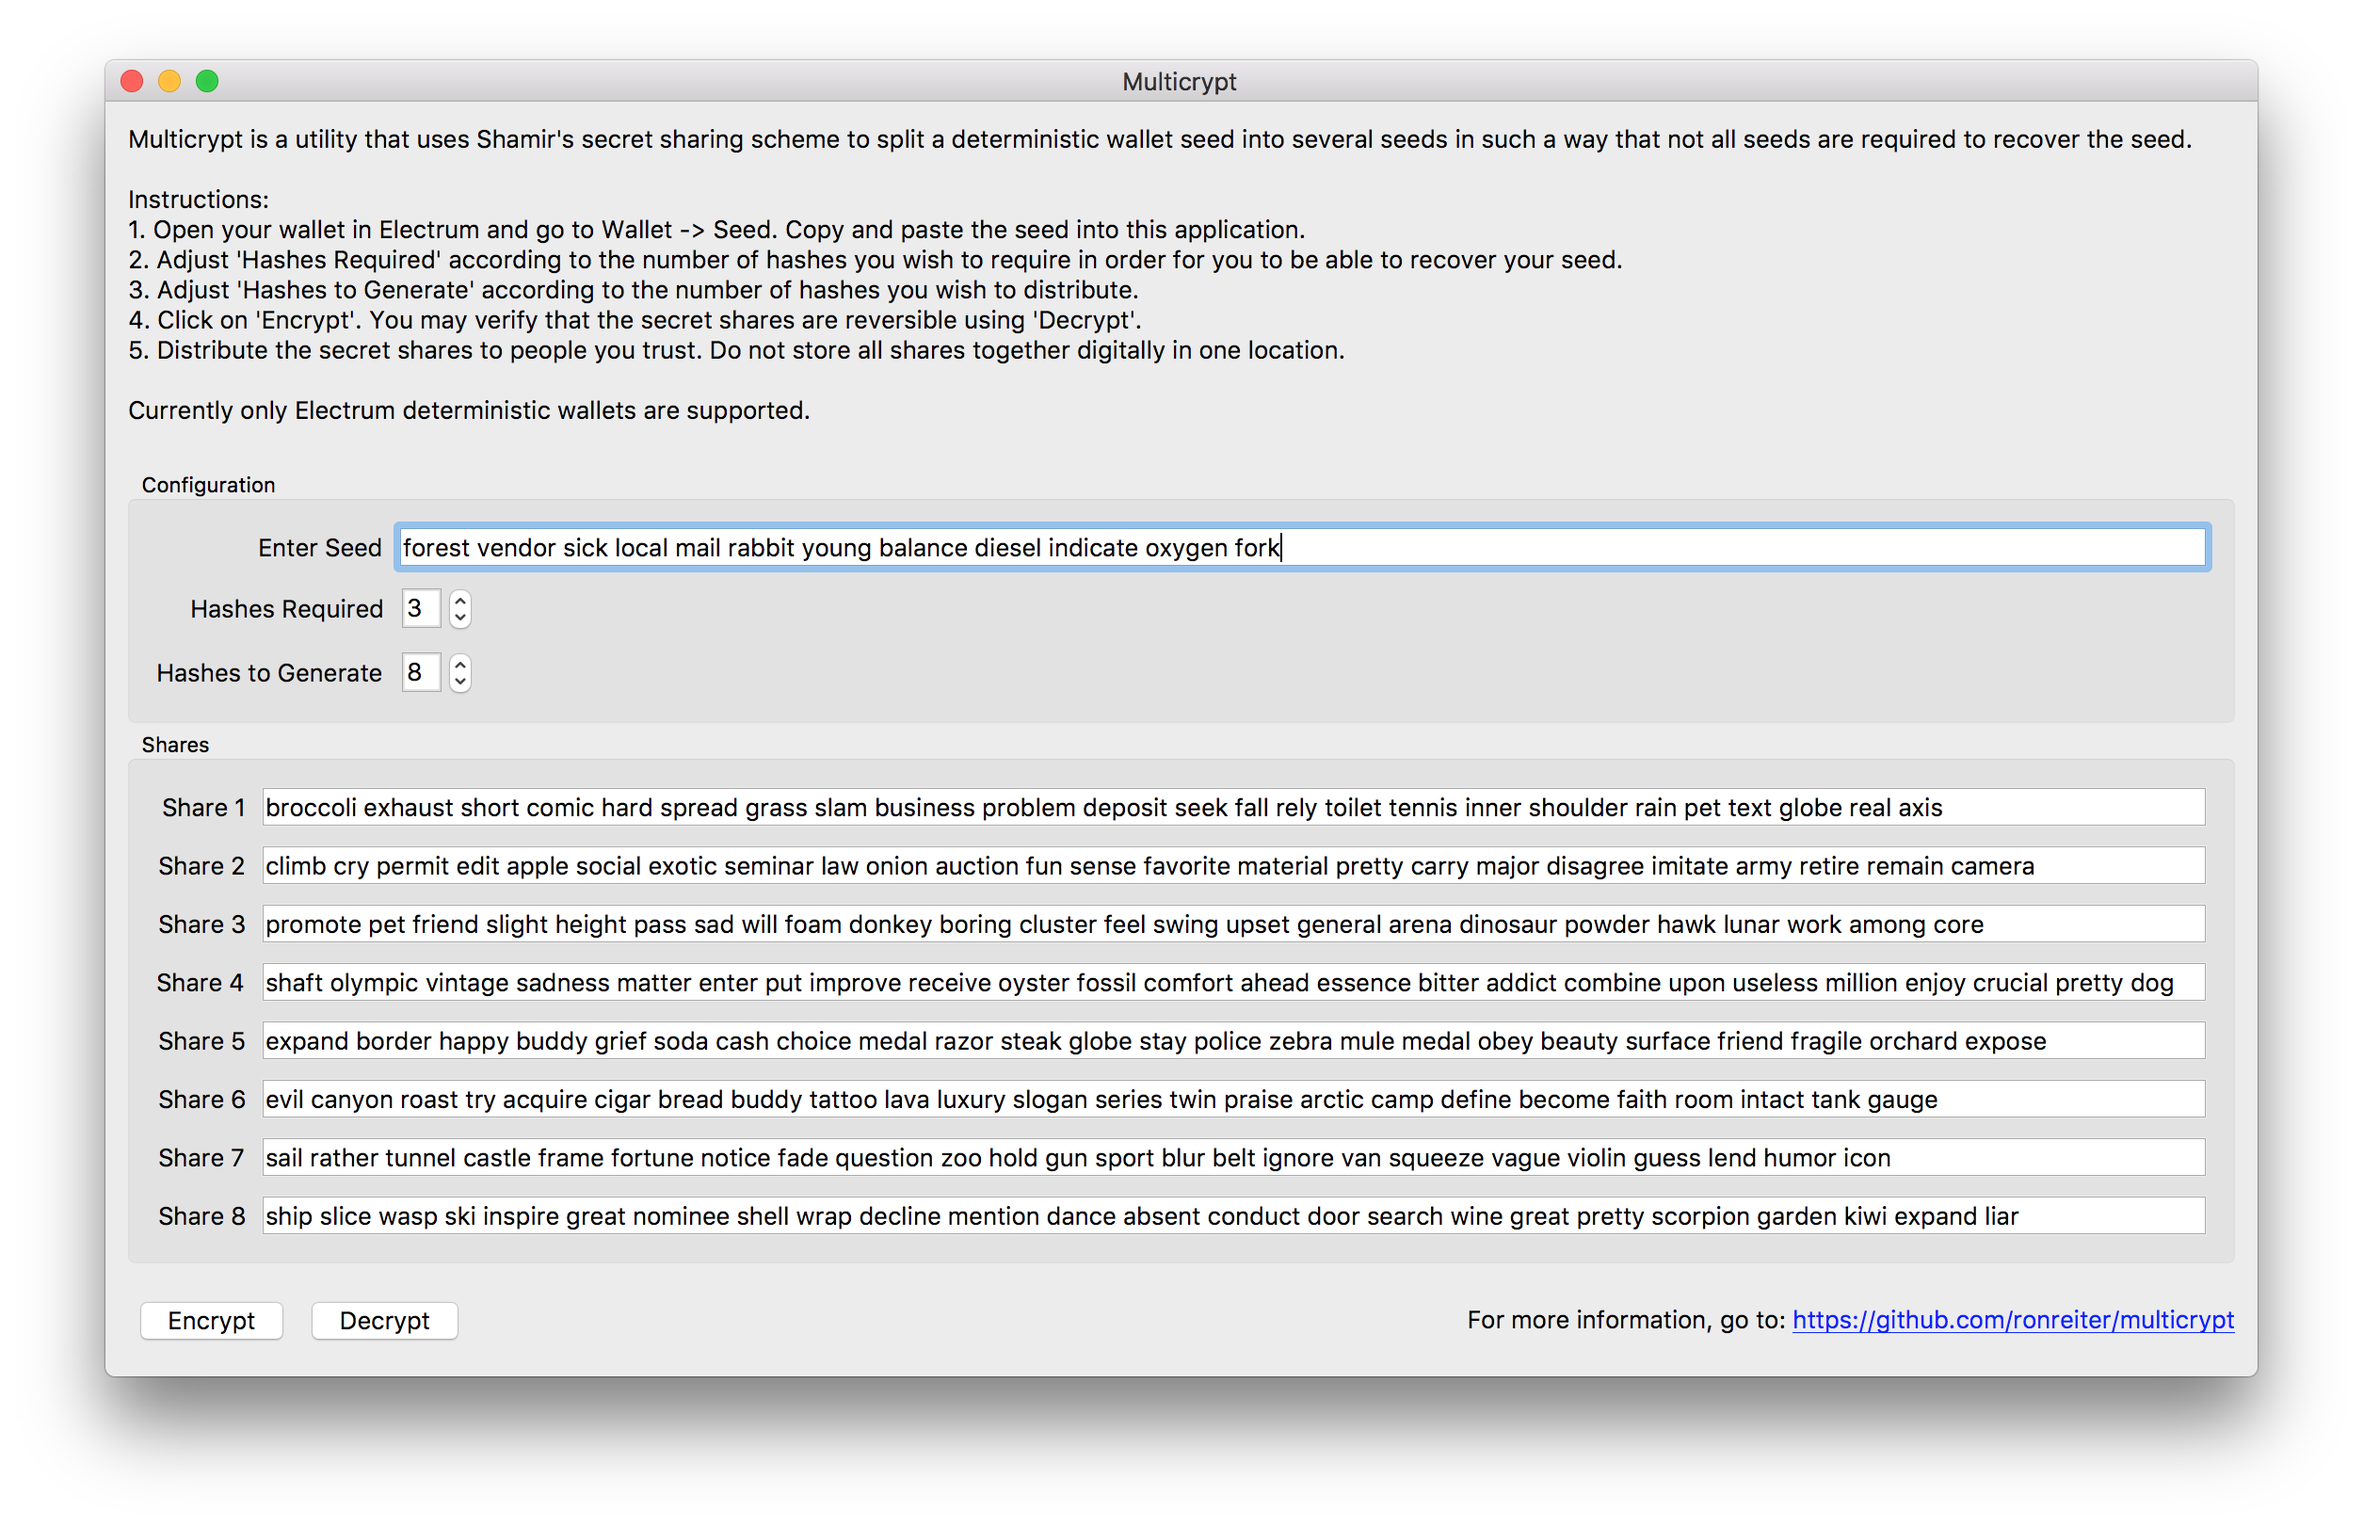
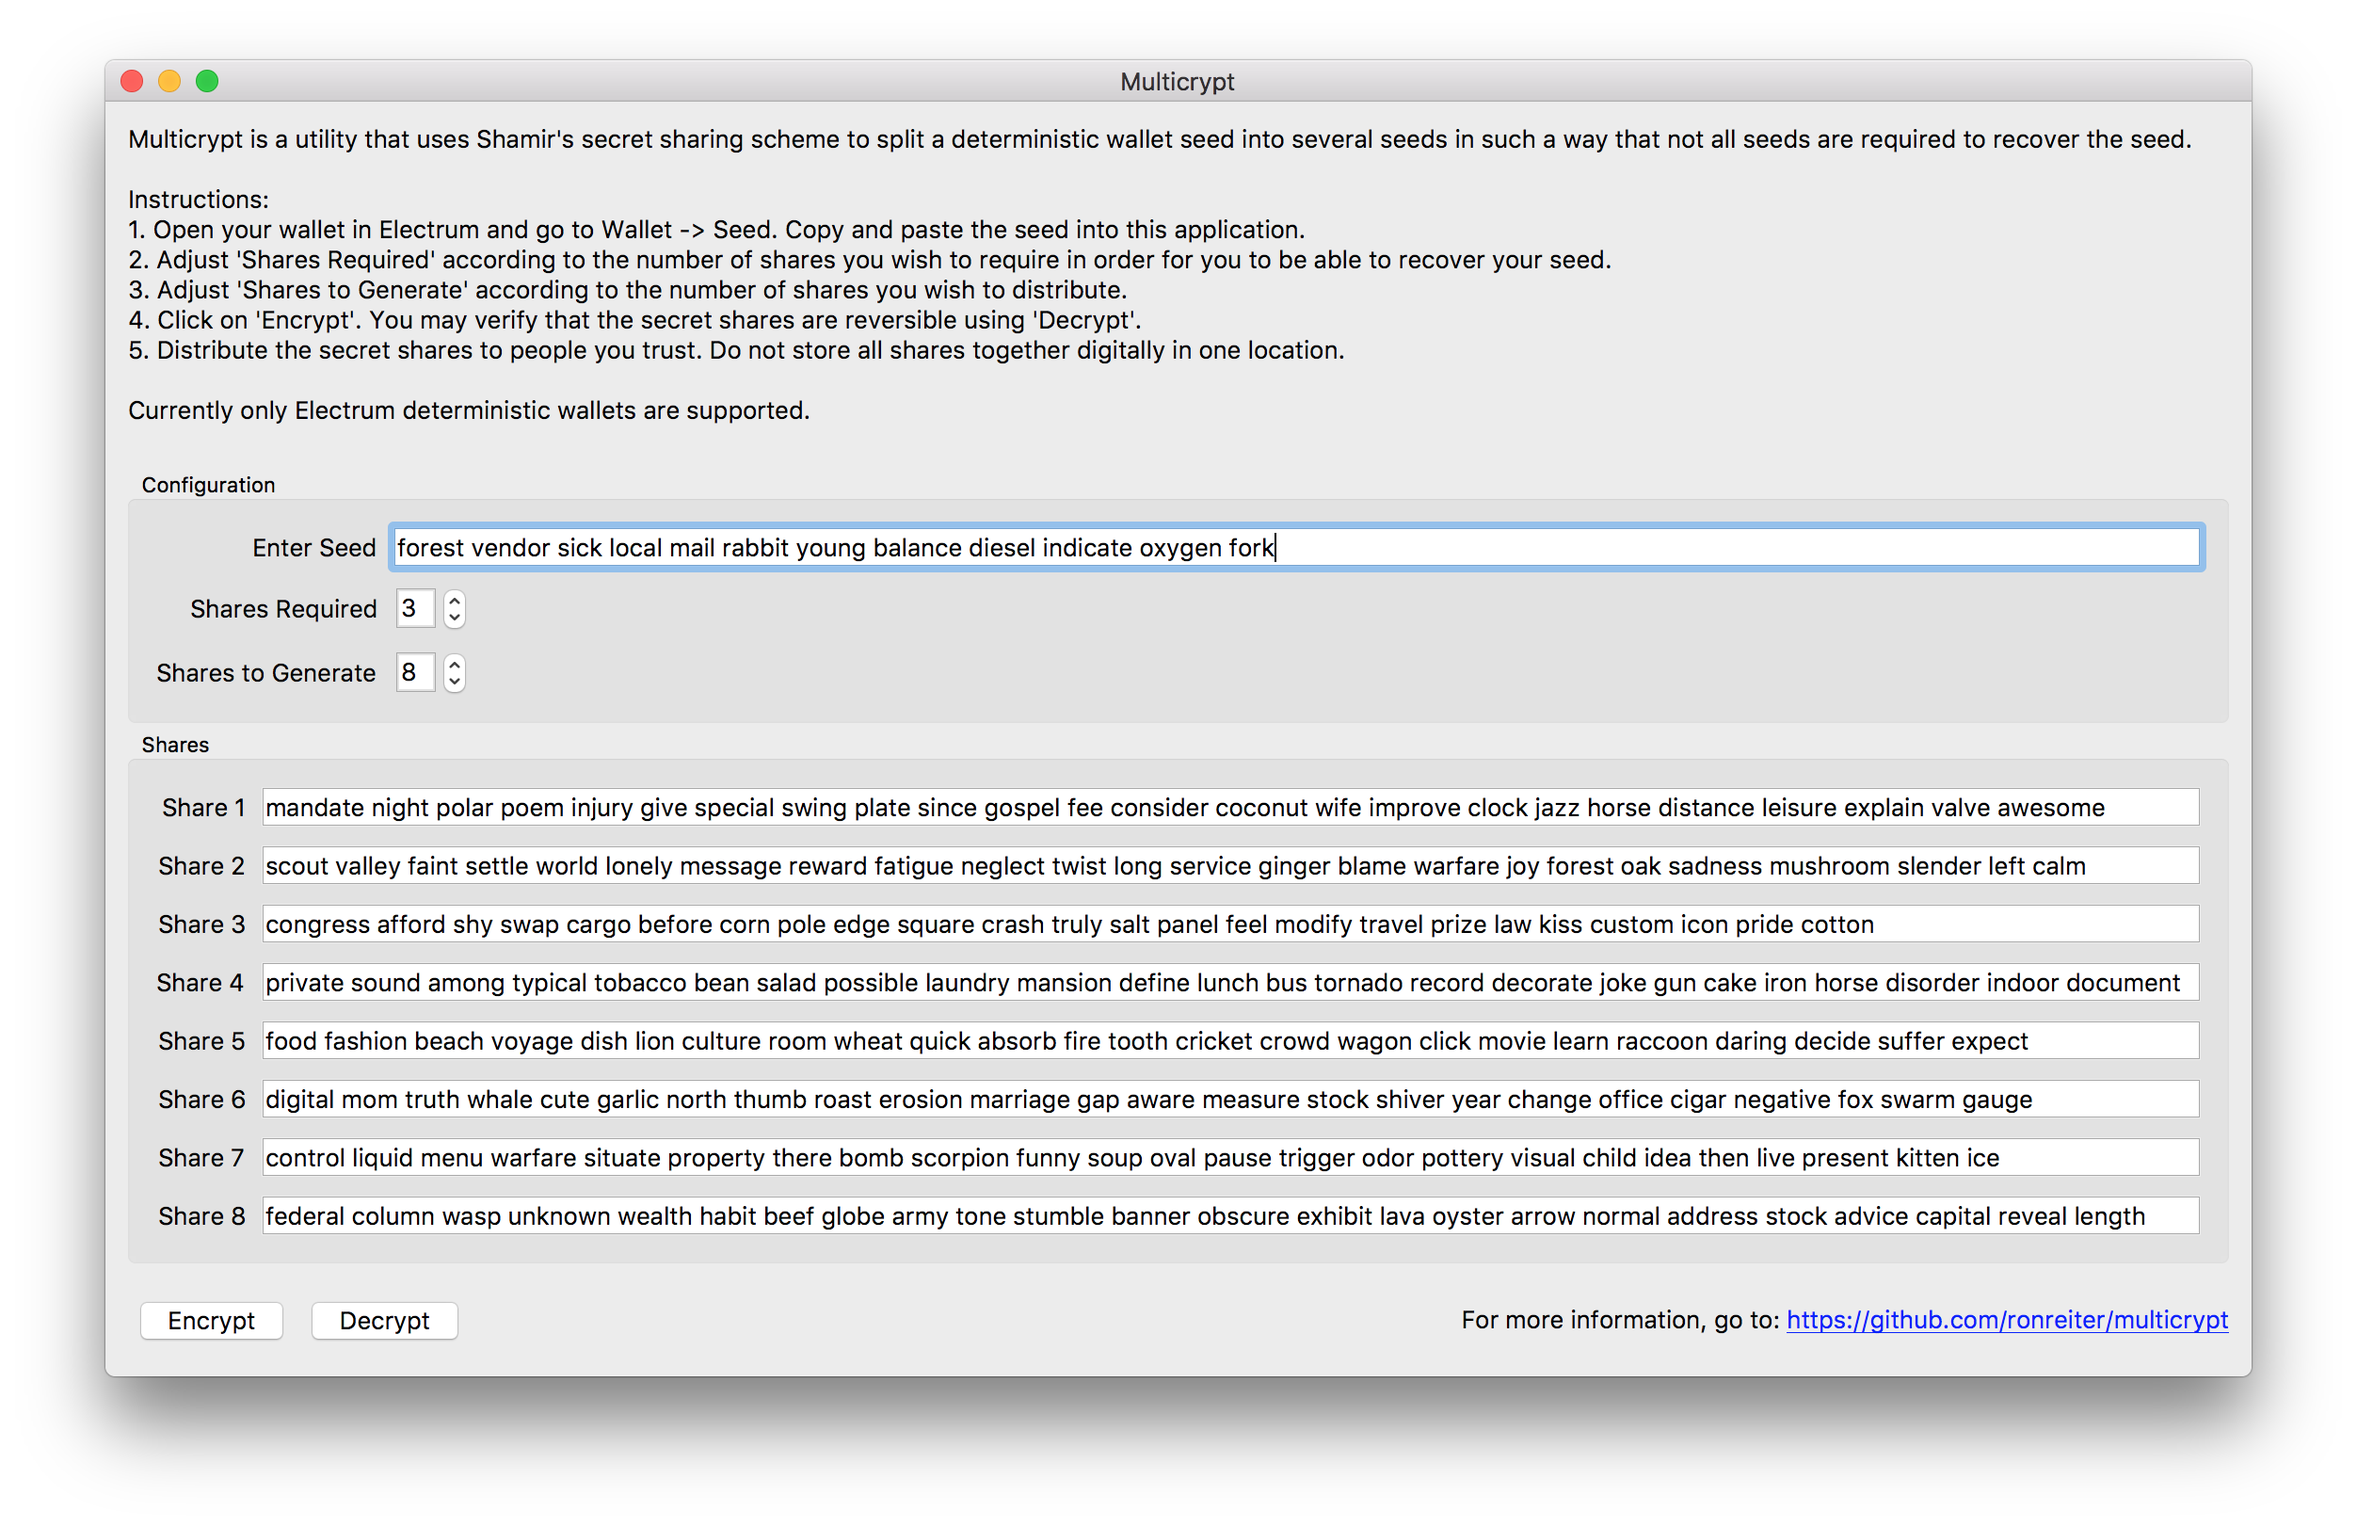
screenshot update

diff --git a/multicrypt.py b/multicrypt.py
@@ -31,8 +31,8 @@ class App(QMainWindow):
                             "the seed.\n\n"
                             "Instructions:\n"
                             "1. Open your wallet in Electrum and go to Wallet -> Seed. Copy and paste the seed into this application.\n"
-                            "2. Adjust 'Hashes Required' according to the number of hashes you wish to require in order for you to be able to recover your seed.\n"
-                            "3. Adjust 'Hashes to Generate' according to the number of hashes you wish to distribute.\n"
+                            "2. Adjust 'Shares Required' according to the number of shares you wish to require in order for you to be able to recover your seed.\n"
+                            "3. Adjust 'Shares to Generate' according to the number of shares you wish to distribute.\n"
                             "4. Click on 'Encrypt'. You may verify that the secret shares are reversible using 'Decrypt'.\n"
                             "5. Distribute the secret shares to people you trust. Do not store all shares together digitally in one location.\n\n"
                             "Currently only Electrum deterministic wallets are supported.")
@@ -54,17 +54,17 @@ class App(QMainWindow):
 
         layout.addRow(QLabel("Enter Seed"), self.original)
 
-        self.hashes_required = QSpinBox()
-        self.hashes_required.setRange(1, 8)
-        self.hashes_required.setValue(3)
+        self.shares_required = QSpinBox()
+        self.shares_required.setRange(1, 8)
+        self.shares_required.setValue(3)
 
-        self.hashes_to_generate = QSpinBox()
-        self.hashes_to_generate.setRange(1, 8)
-        self.hashes_to_generate.setValue(8)
+        self.shares_to_generate = QSpinBox()
+        self.shares_to_generate.setRange(1, 8)
+        self.shares_to_generate.setValue(8)
 
 
-        layout.addRow(QLabel("Hashes Required"), self.hashes_required)
-        layout.addRow(QLabel("Hashes to Generate"), self.hashes_to_generate)
+        layout.addRow(QLabel("Shares Required"), self.shares_required)
+        layout.addRow(QLabel("Shares to Generate"), self.shares_to_generate)
 
         self.conf_group.setLayout(layout)
 
@@ -84,7 +84,6 @@ class App(QMainWindow):
         self.shares_group.setLayout(shares_layout)
 
         buttons_layout = QHBoxLayout()
-
 
         self.button_enc = QPushButton('Encrypt', self)
         self.button_enc.clicked.connect(self.encrypt)
@@ -124,7 +123,7 @@ class App(QMainWindow):
             QMessageBox.question(self, 'Error', "The seed you entered is invalid.", QMessageBox.Ok, QMessageBox.Ok)
             return
 
-        shares = HexToHexSecretSharer.split_secret(val, self.hashes_required.value(), self.hashes_to_generate.value())
+        shares = HexToHexSecretSharer.split_secret(val, self.shares_required.value(), self.shares_to_generate.value())
 
         for share_no in range(len(shares)):
 

diff --git a/README.rst b/README.rst
@@ -30,8 +30,8 @@ Usage Instructions
 ==================
 
 1. Open your wallet in Electrum and go to Wallet -> Seed. Copy and paste the seed into this application.
-2. Adjust 'Hashes Required' according to the number of hashes you wish to require in order for you to be able to recover your seed.
-3. Adjust 'Hashes to Generate' according to the number of hashes you wish to distribute.
+2. Adjust 'Shares Required' according to the number of shares you wish to require in order for you to be able to recover your seed.
+3. Adjust 'Shares to Generate' according to the number of shares you wish to distribute.
 4. Click on 'Encrypt'. You may verify that the secret shares are reversible using 'Decrypt'.
 5. Distribute the secret shares to people you trust. Do not store all shares together digitally in one location.
 
